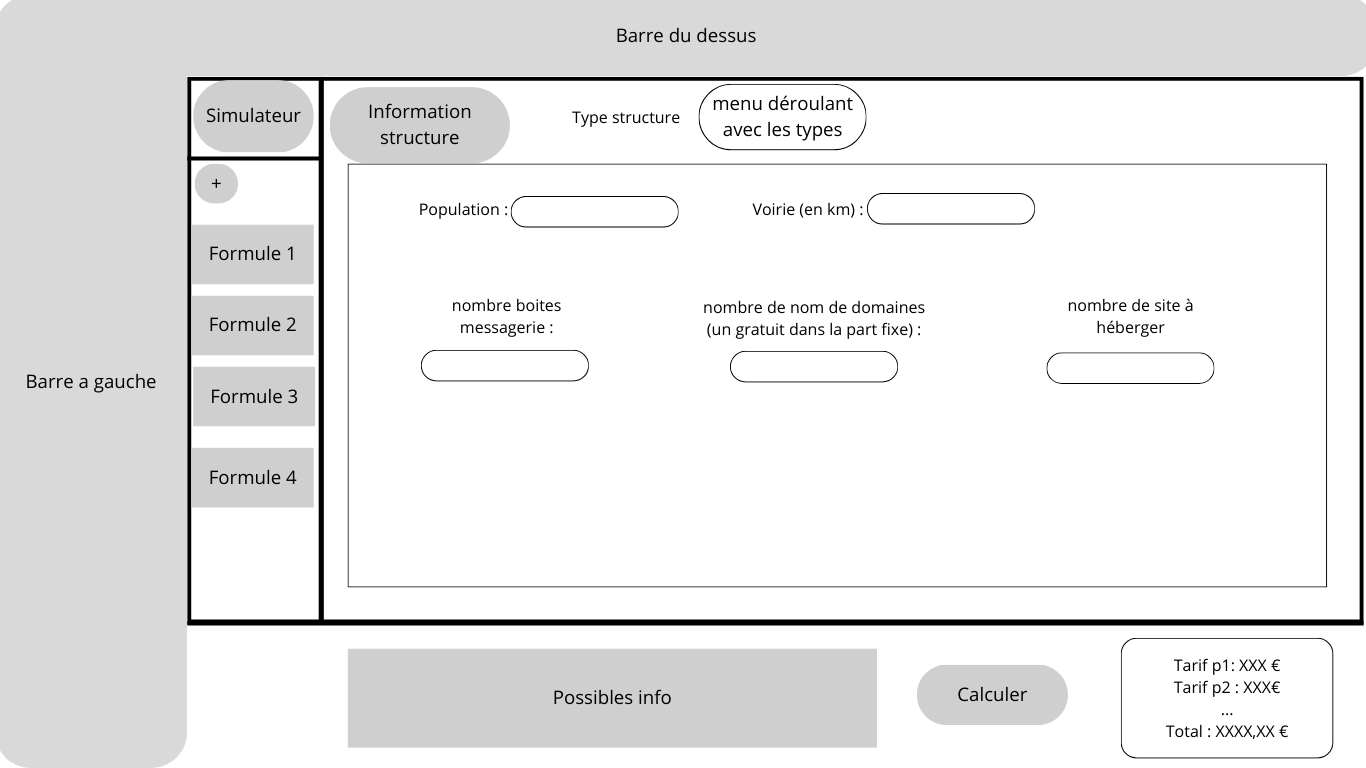
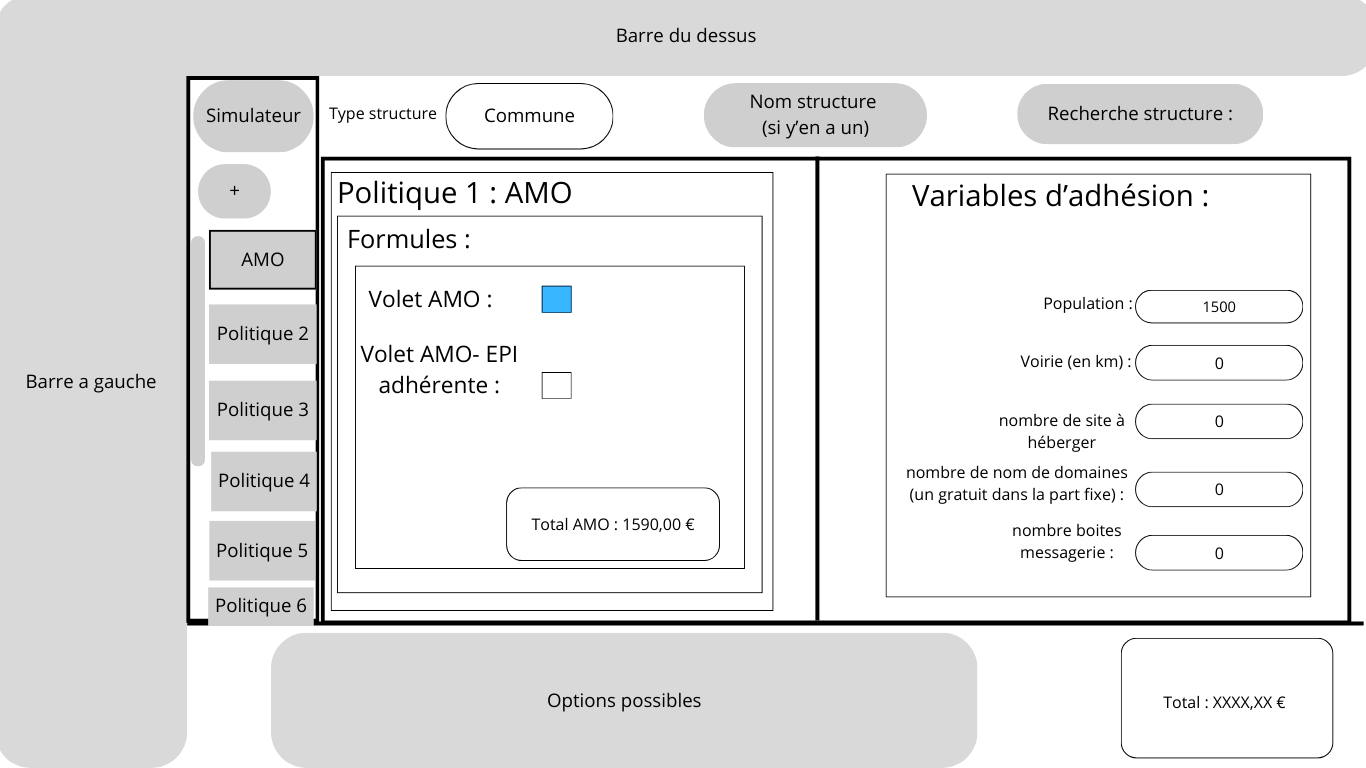
modif wireframes

diff --git a/README.md b/README.md
@@ -14,18 +14,14 @@ Ce simulateur devra s'intégrer à l'application déjà existante : **Numérobis
 
 ### Expression fonctionnelle du besoin
 
-| Type Fonction | Fonction                                                    | Critères d'appréciation                                                              | Coefficient |
-| :-----------: | ----------------------------------------------------------- | ------------------------------------------------------------------------------------ | :---------: |
-|      FP       | Calculer le prix final en fonction des adhésions simulées   | Renvoie le prix correct en un temps raisonnable                                      |      5      |
-|      FC1      | Intégré sur le site interne                                 | Lien facilement trouvable sur le site                                                |      5      |
-|      FC2      | Utilisé l'API **Numérobis** déjà existante                  | La/les nouvelles routes n'explosent pas l'API                                        |      5      |
-|      FC3      | Formulaire intuitif et facilement completable               | Formulaire d'une taille raisonnable                                                  |      3      |
-|      FC4      | Pouvoir facilement supprimer une politique de la simulation | Facilement supprimable sans supprimé les autres                                      |      3      |
-|      FC5      | Faire attention aux prix planchers/plafonds                 | Aucun résultat de dépasse le plancher/plafond                                        |      5      |
-|      FS1      | Pouvoir simulé le prix avec **plusieurs** politiques        | Résultats correct et toujours dans un temps modéré + détail des prix                 |      5      |
-|      FS2      | Nouvelle page                                               | Page fonctionnelle pour le simulateur                                                |      3      |
-|      FS3      | Notifier les différente réductions/augmentations            | Prendre en compte le volet multi-site ainsi que les réductions sur la cyber-sécurité |      2      |
-|      FS4      | Notifier quand on atteint le plancher/plafond               | Notification que c'est un prix plafond/plancher                                      |      1      |
+| Type Fonction | Fonction                                                  | Critères d'appréciation                         | Coefficient |
+| :-----------: | --------------------------------------------------------- | ----------------------------------------------- | :---------: |
+|      FP       | Calculer le prix final en fonction des adhésions simulées | Renvoie le prix correct en un temps raisonnable |      5      |
+|      FC1      | Intégré sur le site interne                               | Lien facilement trouvable sur le site           |      5      |
+|      FC2      | Utilisé l'API **Numérobis** déjà existante                | La/les nouvelles routes ne cassent pas l'API    |      5      |
+|      FC3      | Formulaire intuitif et facilement completable             | Formulaire d'une taille raisonnable             |      3      |
+|      FC4      | Pouvoir facilement supprimer une formule de la simulation | Facilement supprimable sans supprimé les autres |      3      |
+|      FC5      | Faire attention aux prix planchers/plafonds               | Aucun résultat de dépasse le plancher/plafond   |      5      |
 
 ### Solutions proposées
 
@@ -50,15 +46,48 @@ Il faudra certainement ajouté une route POST dans l'api qui attendrai dans le b
 
 ```json
 {
-  "parameters": {
-    "population": 853,
-    "roads": 12.45,
-    "etp": 0,
-    "mailBox": 0,
-    "domainName": 0,
-    "hostingSite": 0
+  "adhesion": {
+    "structures": {
+      "name": "test",
+      "typesOfStructure": "/api/types_of_structure/4",
+      "adhesionVariables": [
+        {
+          "value": 10,
+          "years": "/api/years/2025",
+          "priceUnit": "/api/price_units/2"
+        },
+        {
+          "value": 10,
+          "years": "/api/years/2022",
+          "priceUnit": "/api/price_units/2"
+        },
+        {
+          "value": 1500,
+          "years": "/api/years/2024",
+          "priceUnit": "/api/price_units/1"
+        },
+        {
+          "value": 7,
+          "years": "/api/years/2025",
+          "priceUnit": "/api/price_units/6"
+        },
+        {
+          "value": 2,
+          "years": "/api/years/2025",
+          "priceUnit": "/api/price_units/10"
+        },
+        {
+          "value": 2,
+          "years": "/api/years/2025",
+          "priceUnit": "/api/price_units/11"
+        }
+      ]
+    },
+    "formules": ["/api/formules/1"]
   },
-  "formules": ["uri formule1", "uri formule2"]
+
+  "years": 2025,
+  "adheringRgpd": true
 }
 ```
 
